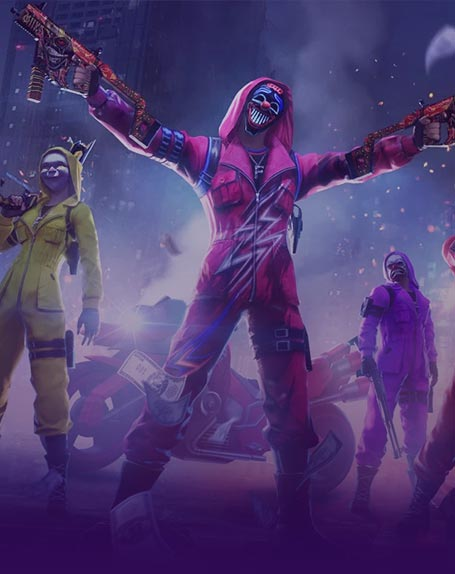
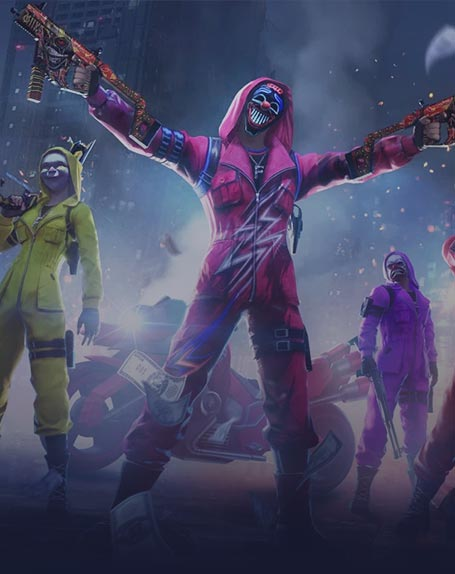
Update: Menyesuaikan warna untuk semua desain

Changed region(s): [[0.0, 0.8293, 1.0, 1.0]]

diff --git a/src/components/GameDetail.tsx b/src/components/GameDetail.tsx
@@ -109,7 +109,7 @@ const GameDetail: React.FC<Props> = ({ games }) => {
                 <div className="grid grid-cols-7 sm:gap-8 gap-4 h-full">
                     <div className="lg:col-span-2 col-span-7">
                         <div className="sticky top-28">
-                            <div className="bg-blue-700 sm:px-12 sm:py-8 px-10 py-6 text-white rounded-lg">
+                            <div className="bg-steelBlue sm:px-12 sm:py-8 px-10 py-6 text-white rounded-lg">
                                 <h4 className="text-xl font-bold mb-4">Panduan Topup!</h4>
                                 <ol className="list-decimal">
                                     {game.guide.map((guideList) => (
@@ -121,10 +121,10 @@ const GameDetail: React.FC<Props> = ({ games }) => {
                     </div>
                     <div className="lg:col-span-5 col-span-7">
                         <div className="">
-                            <div className="bg-blue-700 sm:px-12 px-10 py-4 text-white font-bold rounded-t-lg">
+                            <div className="bg-steelBlue sm:px-12 px-10 py-4 text-white font-bold rounded-t-lg">
                                 Masukkan User ID
                             </div>
-                            <div className="bg-blue-950 sm:px-12 px-10 py-8 rounded-b-lg">
+                            <div className="bg-midnightBlue sm:px-12 px-10 py-8 rounded-b-lg">
                                 <form onSubmit={handleSubmit}>
                                     <div className="flex md:flex-row flex-col gap-4">
                                         {game.topupSystem.map((topupSystemList) => (
@@ -156,10 +156,10 @@ const GameDetail: React.FC<Props> = ({ games }) => {
                             </div>
                         </div>
                         <div className="sm:mt-6 mt-4">
-                            <div className="bg-blue-700 text-white font-bold rounded-t-lg sm:px-12 px-10 py-4">
+                            <div className="bg-steelBlue text-white font-bold rounded-t-lg sm:px-12 px-10 py-4">
                                 Pilih Paket Anda
                             </div>
-                            <div className="bg-blue-950 sm:px-12 px-10 py-8 rounded-b-lg">
+                            <div className="bg-midnightBlue sm:px-12 px-10 py-8 rounded-b-lg">
                                 {/* Price List */}
                                 {game.packages.map((packageType) => (
                                     <div key={packageType.type}>
@@ -177,21 +177,20 @@ const GameDetail: React.FC<Props> = ({ games }) => {
                                                     />
                                                     <label
                                                         htmlFor={option.nameOption}
-                                                        className="h-full p-4 text-gray-500 cursor-pointer block bg-white border border-gray-200 rounded-lg overflow-hidden transition duration-300 ease-in-out shadow-md hover:shadow-lg peer-checked:bg-sky-500 peer-checked:text-white peer-checked:font-medium"
+                                                        className="h-full p-4 text-gray-500 cursor-pointer block bg-white border border-gray-200 rounded-lg overflow-hidden transition duration-300 ease-in-out shadow-md hover:shadow-lg peer-checked:bg-pearlWhite peer-checked:text-black peer-checked:font-medium peer-checked:outline peer-checked:outline-offset-4 peer-checked:outline-lemonChiffon"
                                                     >
                                                         <div className="flex sm:justify-between sm:flex-row flex-col-reverse">
-                                                            <div className="w-4/5">
+                                                            <div className="sm:w-4/5">
                                                                 <p className="text-xs mb-4">{option.nameOption}</p>
                                                                 <p className="text-xs font-medium">{FormatRupiah({ value: option.price })}</p>
                                                             </div>
-                                                            <div className="sm:mb-0 mb-4 w-1/5 flex justify-end">
+                                                            <div className="sm:mb-0 mb-4 sm:w-1/5 flex sm:justify-end justify-start">
                                                                 <img                                                                                                                                                                                                                                                                                                                                                                                                                                                                                                                                                                                                                    
                                                                 src={`/images/${packageType.iconCurrency}`}
                                                                 className="h-5 w-auto drop-shadow-xl"
                                                                 alt=""/>
                                                             </div>
                                                         </div>
-                                                        
                                                     </label>
                                                 </div>
                                             ))}

diff --git a/src/components/ListGame.tsx b/src/components/ListGame.tsx
@@ -13,7 +13,7 @@ const ListGame: React.FC<Props> = ({ games }) => {
 
     return (
         <div className="sm:my-8 my-4">
-            <div className="grid lg:grid-cols-4 sm:grid-cols-3 grid-cols-2 sm:gap-8 gap-4">
+            <div className="grid 2xl:grid-cols-5 lg:grid-cols-4 sm:grid-cols-3 grid-cols-2 sm:gap-8 gap-4">
                 {games.map((game) => (
                     <>
                         <Link to={`/topup/${game.name.split(` `).join(`-`).toLowerCase()}`}
@@ -21,11 +21,11 @@ const ListGame: React.FC<Props> = ({ games }) => {
                             <div
                                 className="da relative flex flex-col justify-center overflow-hidden bg-gray-50"
                                 >
-                                <div className="absolute inset-0 bg-center dark:bg-black"></div>
+                                <div className="absolute inset-0 bg-center"></div>
                                 <div
                                     className="group relative m-0 flex h-72 w-full rounded-xl shadow-xl ring-gray-900/5 sm:mx-auto sm:max-w-lg">
                                     <div
-                                        className="z-10 h-full w-full overflow-hidden rounded-xl border border-gray-200 opacity-80 transition duration-300 ease-in-out group-hover:opacity-100 dark:border-gray-700 dark:opacity-70">
+                                        className="z-10 h-full w-full overflow-hidden rounded-xl border border-gray-200 opacity-80 transition duration-300 ease-in-out group-hover:opacity-100">
                                         <img
                                             src={`/images/${game.picture}`}
                                             className="animate-fade-in block h-full w-full scale-100 transform object-cover object-center opacity-100 transition duration-300 group-hover:scale-110"

diff --git a/src/components/Navbar.tsx b/src/components/Navbar.tsx
@@ -4,8 +4,8 @@ import { Navbar } from "flowbite-react";
 
 function Navbars() {
     return (
-        <div className="sticky top-0 z-50 bg-blue-950 xl:px-36 sm:px-8 px-6">
-            <Navbar fluid className="bg-blue-950 py-6">
+        <div className="sticky top-0 z-50 bg-midnightBlue xl:px-36 sm:px-8 px-6">
+            <Navbar fluid className="bg-midnightBlue py-6">
                 <Navbar.Brand as={NavLink} to="/">
                     <span className="self-center whitespace-nowrap text-3xl font-semibold text-white">
                         Toko Geeta

diff --git a/tailwind.config.js b/tailwind.config.js
@@ -5,7 +5,15 @@ module.exports = {
     "node_modules/flowbite-react/lib/esm/**/*.js",
   ],
   theme: {
-    extend: {},
+    extend: {
+      colors: {
+        midnightBlue: '#161A30',
+        steelBlue: '#31304D',
+        silverSmoke: '#B6BBC4',
+        pearlWhite: '#F0ECE5',
+        lemonChiffon: '#F8E559',
+      },
+    },
   },
   plugins: [require("flowbite/plugin")],
 };
